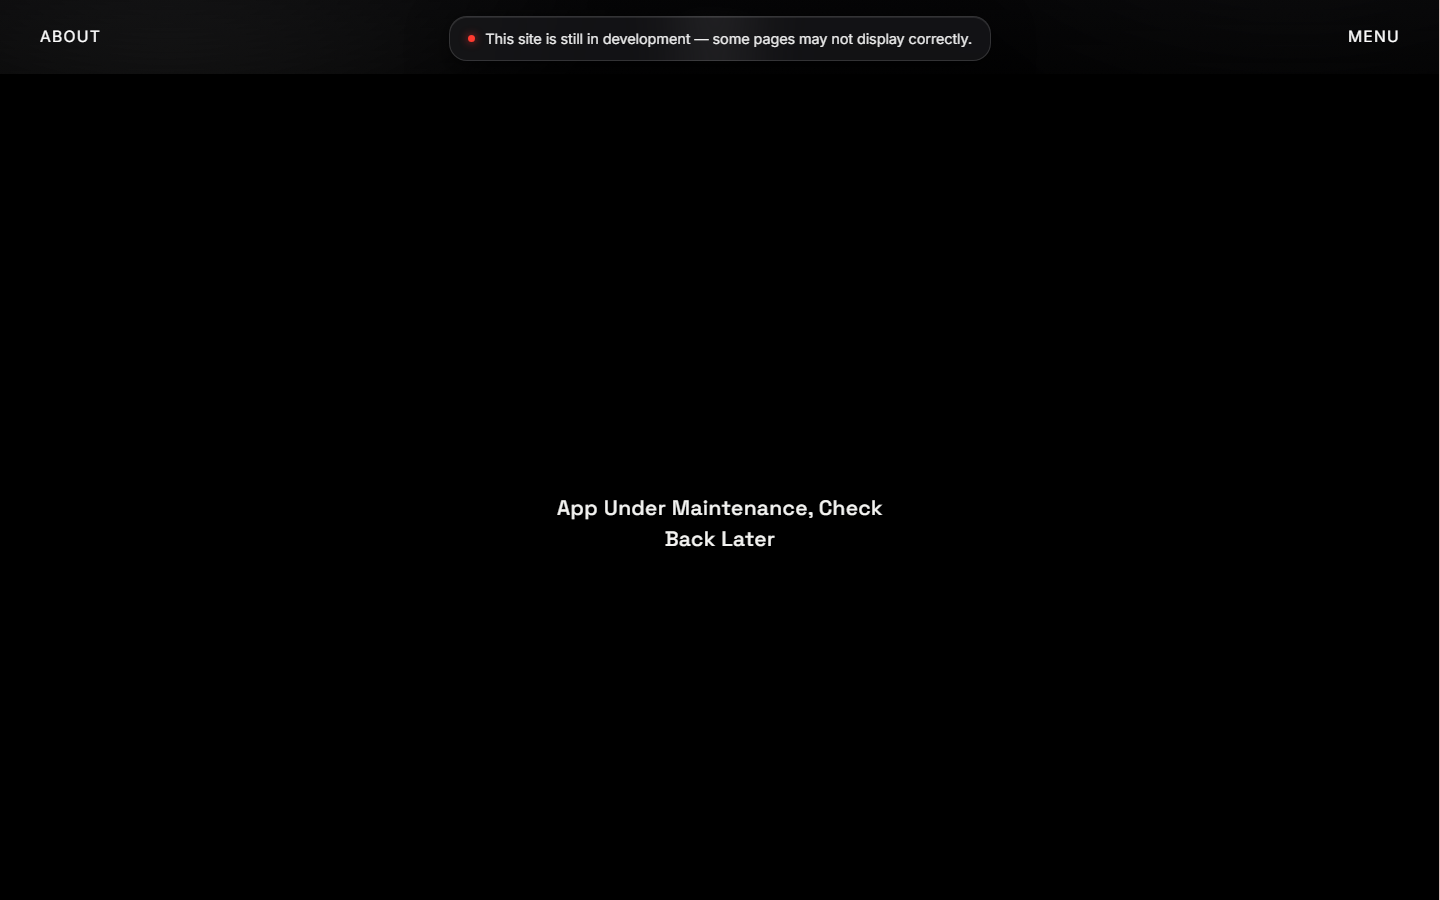
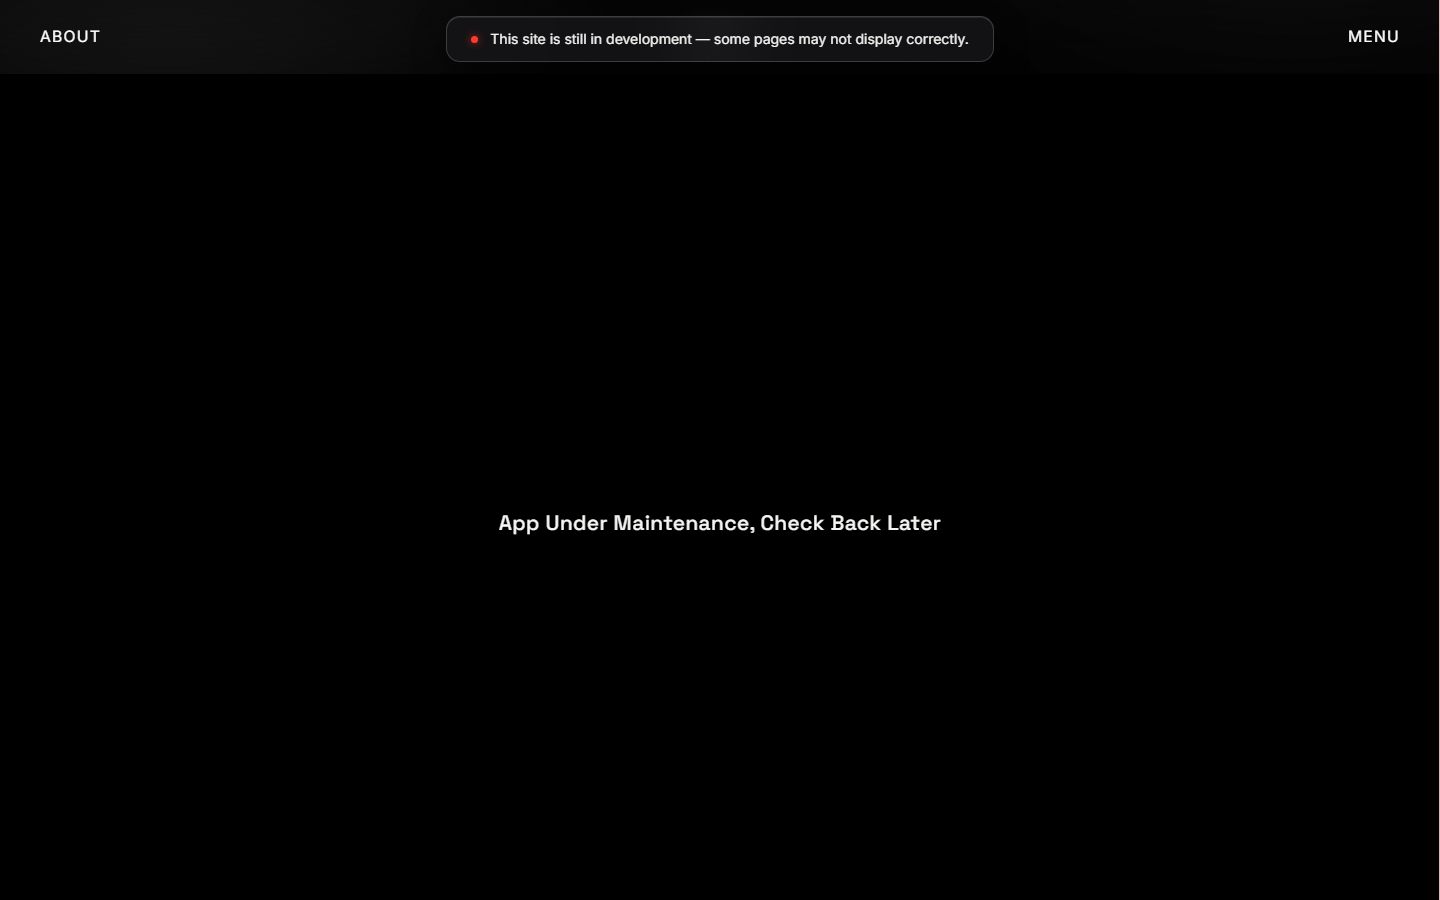
fix: raise notice contrast over bright tiles, move to design tokens
The glass was 62% alpha, which held up over the dark page but not over a
bright video tile scrolling beneath it. Raised to 82% — still reads as
glass, and the text now stays legible in the worst case.

Radius, padding, gap, font size, border, shadow and easing were raw
values; they now use the existing scale, which also makes the mobile
font-size override unnecessary. The maintenance line was orphaning
"Back Later", so it wraps at the comma instead.

Changed region(s): [[0.3438, 0.56, 0.6562, 0.6222], [0.3438, 0.0311, 0.6875, 0.0622]]

diff --git a/frontend/css/main.css b/frontend/css/main.css
@@ -429,25 +429,24 @@ h1, h2, h3 { font-family: var(--font-display); line-height: 1.06; letter-spacing
   z-index: 9998;
   display: flex;
   align-items: center;
-  gap: 0.65rem;
+  gap: var(--space-3);
   width: max-content;
   max-width: min(620px, calc(100vw - 2 * var(--gutter)));
-  padding: 0.72rem 1.15rem;
-  border: 1px solid rgba(255, 255, 255, 0.14);
-  border-radius: 18px;
-  background: rgba(28, 28, 30, 0.62);
+  padding: var(--space-3) var(--space-5);
+  border: 1px solid var(--line-strong);
+  border-radius: var(--radius);
+  /* Opaque enough to hold AA contrast when a bright video tile scrolls under it. */
+  background: rgba(22, 22, 24, 0.82);
   -webkit-backdrop-filter: blur(28px) saturate(180%);
   backdrop-filter: blur(28px) saturate(180%);
   box-shadow:
     0 1px 0 0 rgba(255, 255, 255, 0.09) inset,
-    0 12px 40px rgba(0, 0, 0, 0.5),
-    0 2px 8px rgba(0, 0, 0, 0.3);
+    var(--shadow-md);
   opacity: 0;
   transform: translateY(calc(-100% - var(--space-6)));
-  /* Gentle overshoot on the way in; plain ease on the way out. */
   transition:
-    transform 0.62s cubic-bezier(0.16, 1, 0.3, 1),
-    opacity 0.42s cubic-bezier(0.4, 0, 0.2, 1);
+    transform var(--dur-slow) var(--ease-out),
+    opacity var(--dur) var(--ease);
 }
 .notice--in {
   opacity: 1;
@@ -464,25 +463,21 @@ h1, h2, h3 { font-family: var(--font-display); line-height: 1.06; letter-spacing
 .notice__text {
   margin: 0;
   font-family: var(--font-body);
-  font-size: 0.9rem;
+  font-size: var(--fs-sm);
   font-weight: 400;
-  line-height: 1.4;
-  letter-spacing: -0.005em;
-  color: rgba(255, 255, 255, 0.92);
+  line-height: 1.45;
+  color: var(--color-text);
 }
 @media (max-width: 720px) {
   .notice {
-    padding: 0.62rem 0.95rem;
-    border-radius: 16px;
-  }
-  .notice__text {
-    font-size: 0.82rem;
+    padding: var(--space-3) var(--space-4);
+    border-radius: var(--radius-sm);
   }
 }
 @media (prefers-reduced-motion: reduce) {
   .notice {
     transform: translateY(0);
-    transition: opacity 0.3s linear;
+    transition: opacity var(--dur) linear;
   }
 }
 
@@ -812,12 +807,14 @@ h1, h2, h3 { font-family: var(--font-display); line-height: 1.06; letter-spacing
 }
 .maintenance__msg {
   margin: 0;
-  max-width: 30ch;
+  max-width: 34ch;
   text-align: center;
+  /* Break after the comma rather than orphaning "Back Later". */
+  text-wrap: balance;
   font-family: var(--font-display);
   font-size: var(--fs-lg);
   font-weight: 500;
   line-height: 1.5;
   letter-spacing: 0.02em;
-  color: var(--color-text, #f4f4f2);
+  color: var(--color-text);
 }
